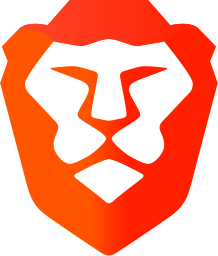
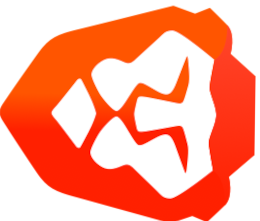
Space!

diff --git a/Particles/ParticleSystem.js b/Particles/ParticleSystem.js
@@ -1,0 +1,68 @@
+class ParticleSystem extends GameObject{
+  constructor(starAmount){
+    super();
+    this.Particles = [];
+    this.ParticleLimit = starAmount;
+    this.Active = true;
+    this.DrawRes = new DrawRes();
+
+    this.ParticleType = Particle;
+
+
+  }
+
+  CreateParticles(type){
+    for (let i = 0; i < this.ParticleLimit; i++){
+      let p = new this.ParticleType();
+      this.Particles.push(p);
+      Game.AddObject(p);
+    }
+  }
+
+  SetParticleSprite(id){
+    this.Particles.forEach(item =>{
+      item.DrawRes.SpriteID = id;
+    });
+  }
+  Disable(){
+    this.Particles.forEach(item =>{
+      item.DrawRes.DrawFunc = new DrawFunction();
+    });
+  }
+  Enable(){
+    this.Particles.forEach(item =>{
+      item.DrawRes.DrawFunc = new BRotatedDrawFunction();
+    });
+  }
+}
+
+class psStarParallax extends ParticleSystem{
+  constructor(starAmount, focus){
+    super(starAmount);
+
+    this.Focus = focus;
+    this.ParticleType = SpaceParticle;
+
+    this.CreateParticles();
+    this.SetParticleSprite(5);
+    this.RandomizePositions();
+    this.Enable();
+
+  }
+
+  RandomizePositions(){
+    this.Particles.forEach(item =>{
+      item.Rigidbody.Pos = new Vec2(getRandomInt(5000), getRandomInt(5000));
+    });
+  }
+
+  Update(felapsed){
+    this.Particles.forEach(item =>{
+      let vel = this.Focus.Rigidbody.Vel.rMult(-1);
+      vel.Mult(1/item.DistanceToPlayer);
+      item.Rigidbody.Vel = vel;
+    });
+  }
+
+
+}

diff --git a/Renderer/Renderer.js b/Renderer/Renderer.js
@@ -67,11 +67,12 @@ class Renderer{
     this.Images[3].src = "Resources/BG/Demo/12.png";
     */
 
-    this.AddImage("Resources/brave-lion@3x.jpeg");
+    this.AddImage("Resources/brave-lion.png");
     this.AddImage("Resources/laserBullet.png");
     this.AddImage("Resources/BG/Demo/l1.png");
     this.AddImage("Resources/BG/Demo/l2.png")
     this.AddImage("Resources/BG/Demo/l3.png")
+    this.AddImage("Resources/star.png");
   }
 
   Update(){
@@ -90,7 +91,6 @@ class Renderer{
         item.DrawRes.Draw(this.GameViewContext, this.Images[item.DrawRes.SpriteID], ScreenSpace, item.DrawRes.Dimensions.rMult(this.m_Camera.Zoom) , item.Rigidbody.Orien);
       })
     });
-
   }
 
   Debug(){

diff --git a/Game.js b/Game.js
@@ -17,7 +17,8 @@ class Game{
 
     this.m_Player.Rigidbody.Position = new Vec2(50,50);
     this.m_Camera = new Camera(this.m_Player.Rigidbody.Pos);
-    this.BGMaster = new DemoBGMaster(this.m_Player);
+    //this.BGMaster = new DemoBGMaster(this.m_Player);
+    this.BGMaster = new SpaceBackground();
 
     this.DebugObject = new DebugObject();
     this.DebugObject.Rigidbody.Pos = new Vec2(300,600);
@@ -37,6 +38,7 @@ class Game{
     Game.AddObject(this.m_Camera);
     Game.AddObject(this.DebugObject);
     Game.AddObject(this.BGMaster);
+
 
   }
 

diff --git a/Objects/BG.js b/Objects/BG.js
@@ -16,7 +16,6 @@ class BackgroundMaster extends BackgroundGameObject{
   constructor(){
     super();
     this.BGLayers = [];
-    console.log(this.BGLayers);
 
   }
 
@@ -41,6 +40,15 @@ class BackgroundLayer extends BackgroundGameObject{
   constructor(){
     super();
     this.DrawRes.DrawFunc = new BRotatedDrawFunction();
+  }
+}
+
+class SpaceBackground extends BackgroundMaster{
+  constructor(){
+    super();
+    this.DrawRes = new SpaceBlackRes();
+    this.DrawRes.Dimensions = new Vec2(5000,5000);
+    this.DrawRes.Layer = 0;
   }
 }
 

diff --git a/Particles/Particle.js b/Particles/Particle.js
@@ -1,3 +1,19 @@
-class Particle{
-  
+class Particle extends GameObject{
+  constructor(){
+    super();
+    this.Name = "Particle";
+    this.Rigidbody = new Rigidbody();
+    this.DrawRes = new DrawRes();
+  }
+}
+
+class SpaceParticle extends Particle{
+  constructor(){
+    super();
+    this.DistanceToPlayer = getRandomInt(50);
+    this.DrawRes.Dimensions = new Vec2(10 * (1/this.DistanceToPlayer),10 * (1/this.DistanceToPlayer));
+    this.DrawRes.Layer = 1;
+    this.DistanceToPlayer = getRandomInt(50);
+
+  }
 }

diff --git a/main.js b/main.js
@@ -48,6 +48,7 @@ function Init(){
 
   RenderSystem.SetCamera(GameSystem.m_Camera);
   RenderSystem.SetEntities(GameSystem.Entities);
+
   Global.InputSystem = InputSystem;
 
 
@@ -70,7 +71,7 @@ function mainloop(timestep){
   ElapsedTime = timestep - PrevTime;
   PrevTime = timestep;
 
-  //console.log(ElapsedTime);
+  console.log(ElapsedTime);
 
 
   RenderSystem.Clear();

diff --git a/Renderer/DrawFunction.js b/Renderer/DrawFunction.js
@@ -42,6 +42,16 @@ class BRotatedDrawFunction extends DrawFunction{
   }
 }
 
+class BGBlack extends DrawFunction{
+  constructor(){
+    super();
+  }
+
+  Draw(context, image, Pos, scale, rot){
+    context.fillRect(0, 0, scale.X, scale.Y);
+  }
+}
+
 class DebugPositionDrawFunc extends DrawFunction{
   constructor(){
     super();

diff --git a/Renderer/DrawRes.js b/Renderer/DrawRes.js
@@ -28,6 +28,15 @@ class DebugSquareRes extends DrawRes{
   }
 }
 
+class SpaceBlackRes extends DrawRes{
+  constructor(){
+    super();
+    this.SpriteID = 0;
+    this.DrawFunc = new BGBlack();
+    this.Layer = 0;
+  }
+}
+
 class PlayerRes extends DrawRes{
   constructor(){
     super();

diff --git a/Index.html b/Index.html
@@ -22,6 +22,8 @@
   <script src = "Objects\Projectile.js"></script>
   <script src = "QuadTree\QuadTree.js"></script>
   <script src = "Objects/BG.js"></script>
+  <script src = "Particles/Particle.js"></script>
+  <script src = "Particles/ParticleSystem.js"></script>
 
 </head>
 <body>

diff --git a/Objects/Player.js b/Objects/Player.js
@@ -13,6 +13,9 @@ class Player extends GameObject{
     this.DrawRes.Dimensions = new Vec2(50,50);
     this.Rigidbody.Mass = 5;
     this.Fired = false;
+
+    this.StarSystem = new psStarParallax(5000,this);
+    Game.AddObject(this.StarSystem);
   }
 
   EarlyUpdate(felapsed){

diff --git a/Utility/Utility.js b/Utility/Utility.js
@@ -74,3 +74,8 @@ class Vec2{
 function Clamp(source, min, max){
   return Math.min(Math.max(source, min), max);
 }
+
+function getRandomInt(max) {
+  if (!max){max = 999999;}
+  return Math.floor(Math.random() * max);
+}
